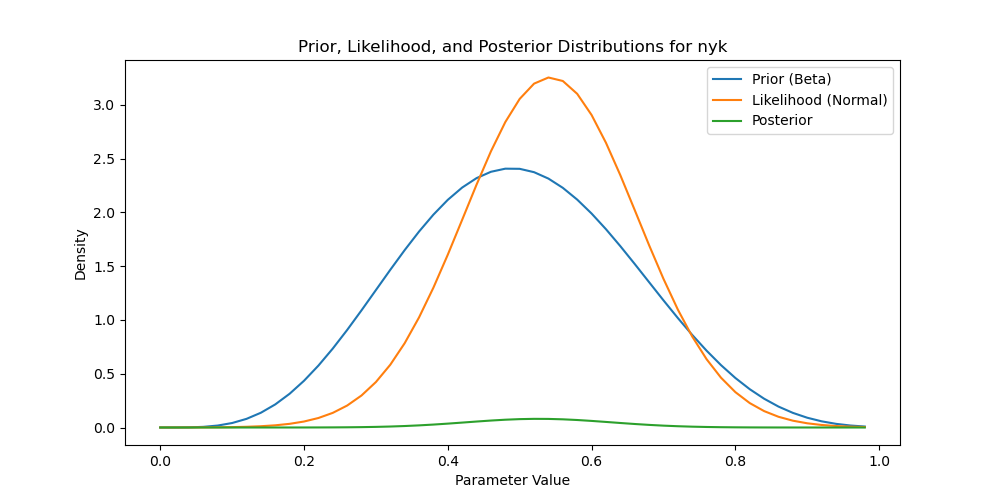
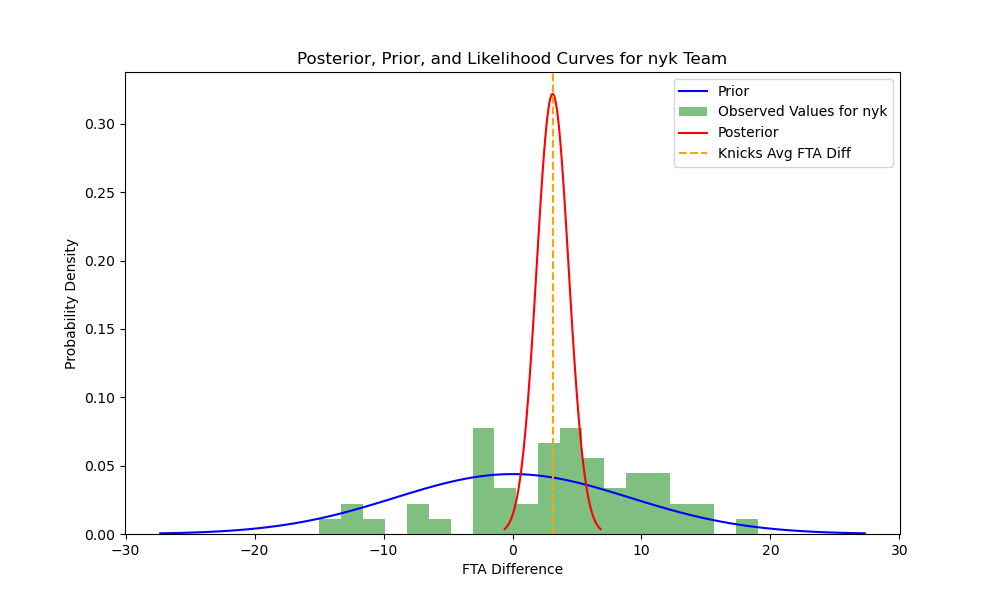
free throw blog update

diff --git a/_posts/free_throw_2024/01_team_data.py b/_posts/free_throw_2024/01_team_data.py
@@ -7,9 +7,7 @@ import seaborn as sns
 import matplotlib.pyplot as plt
 import statsmodels.api as sm
 import scipy.stats as stats
-from sklearn.preprocessing import MinMaxScaler
-from scipy.stats import beta 
-from scipy.stats import norm
+from scipy.stats import norm, gaussian_kde
 # let's set the new working directory:
 new_directory = '/Users/danielposthumus/danielposthumus.github.io/_posts/free_throw_2024'
 os.chdir(new_directory)
@@ -138,18 +136,6 @@ plt.legend(title='Team')
 plt.savefig(image_path + '/total_kdp.png')
 plt.show()
 # let's replot that as a histogram; the problem is that we can't have all 30 teams included; let's restrict it to the top 10.
-# However, to fit the beta distribution, ALL observations of the fta_diff must be in the interval [0,1]; this is pretty simple via standardizing with min-max:
-# Extract the 'fta_diff' column from the master data
-fta_diff = master_team['fta_diff']
-# Create a MinMaxScaler object
-scaler = MinMaxScaler()
-# Fit the scaler to your data and transform it
-scaled_fta_diff = scaler.fit_transform(fta_diff.values.reshape(-1, 1))
-# Add the scaled variable back to the DataFrame
-master_team['scaled_fta_diff'] = scaled_fta_diff
-master_team['scaled_fta_diff'] = master_team['scaled_fta_diff'] + 0.001
-print(np.min(master_team['scaled_fta_diff']))
-print(np.max(master_team['scaled_fta_diff']))
 # Now let's check about missing observations:
 # Display the first few rows of the missing values count
 pd.set_option('display.max_rows', None)
@@ -162,68 +148,84 @@ plt.figure(figsize=(8,4))
 team_colors = {'lal': 'purple', 'phi': 'blue', 'nyk': 'orange'}
 team_labels = {'lal': 'Lakers', 'phi': 'Sixers', 'nyk': 'Knicks'}
 team_averages = {}
-plt.hist(master_team['scaled_fta_diff'])
+plt.hist(master_team['fta_diff'], bins=20, density=True, alpha=0.5, color='skyblue', edgecolor='black', label='FTA Difference')
+# Plotting the normal curve
+mu, std = np.mean(master_team['fta_diff']), np.std(master_team['fta_diff'])
+x = np.linspace(np.min(master_team['fta_diff']), np.max(master_team['fta_diff']), 100)
+plt.plot(x, norm.pdf(x, mu, std), 'r-', label='Normal Distribution')
 plt.ylabel(r'Number of Games')
 plt.xlabel(r'FTA Difference ($\theta$)')
-plt.axvline(master_team['scaled_fta_diff'].mean(), ls='--', c='k', label='Mean Avg FTA (Scaled)')
+plt.axvline(master_team['fta_diff'].mean(), ls='--', c='k', label='Mean Avg FTA')
 for team in ['lal', 'phi', 'nyk']:
-    team_average = master_team[master_team['team_name']==team]['scaled_fta_diff'].mean()
+    team_average = master_team[master_team['team_name']==team]['fta_diff'].mean()
     team_averages[team] = team_average
-    plt.axvline(x=team_average, color=team_colors[team], linestyle='--', label=f'{team_labels[team]} Avg FTA Diff (Scaled)')
+    plt.axvline(x=team_average, color=team_colors[team], linestyle='--', label=f'{team_labels[team]} Avg FTA Diff')
 plt.legend()
 plt.tight_layout()
 plt.savefig(image_path + '/total_hist.png')
 plt.show()
-# Now let's fit a beta distribution:
-res = stats.beta.fit(master_team['scaled_fta_diff'].values, floc=0, fscale=1.1)
-# Print alpha and beta parameters of the beta distribution
-print('alpha: %0.3f, beta: %0.3f of beta distribution' % (res[0], res[1]))
-# Now let's plot the histogram w/the mean lines and the prior distribution curve
-plot_theta = np.arange(0,1,.02)
-prior_prob = np.array([beta(res[0], res[1], loc=0, scale=1.1).pdf(i) for i in plot_theta])
-
-fig, ax = plt.subplots(1,1, figsize=(8,4))
-ax.hist(master_team['scaled_fta_diff'], density=True)
-ax.axvline(master_team['scaled_fta_diff'].mean(), ls='--', c='k',
-            label='Mean ('+str(master_team['scaled_fta_diff'].mean().round(3))+')')
-ax.plot(plot_theta, prior_prob, label="Prior Distribution")
-ax.set_yticks([])
-ax.set_ylabel(r'Pr($\theta$)')
-ax.set_xlabel(r'FTA Difference($\theta$)')
-ax.legend()
-sns.despine(offset=[3.,0.])
-plt.tight_layout()
-plt.savefig(image_path + '/total_prior_dist.png')
-plt.show()
-
-# Now let's analytically derive the posterior; let's run a loop for the three teams of interest:
-three_teams = ['lal', 'nyk', 'phi']
-for team in three_teams:
-    # Define the normal likelihood function
-    def normal_likelihood(data, mean, std):
-        likelihood = norm.pdf(data, loc=mean, scale=std)
-        return likelihood
-    # Calculate mean and standard deviation of the observed data
-    # Filter the DataFrame to select only observations where team_name is 'team'
-    team_data = master_team[master_team['team_name'] == f'{team}']
-    # Calculate mean and standard deviation of the filtered data
-    mean_team = team_data['scaled_fta_diff'].mean()
-    std_team = team_data['scaled_fta_diff'].std()
-    # Compute the likelihood function using the observed data and its parameter
-    # Adjust the range of values for team_likelihood to match the length of prior_prob
-    team_likelihood = normal_likelihood(np.linspace(0, 1, len(prior_prob)), mean_team, std_team)
-    # Compute the unnormalized posterior by multiplying the likelihood with the prior
-    team_unnormalized_posterior = team_likelihood * prior_prob
-    # Normalize the posterior to obtain the actual posterior distribution
-    team_posterior = team_unnormalized_posterior / np.sum(team_unnormalized_posterior)
-    # Plot the prior, likelihood, and posterior distributions
-    plt.figure(figsize=(10, 5))
-    plt.plot(plot_theta, prior_prob, label='Prior (Beta)')
-    plt.plot(plot_theta, team_likelihood, label='Likelihood (Normal)')
-    plt.plot(plot_theta, team_posterior, label='Posterior')
-    plt.xlabel('Parameter Value')
-    plt.ylabel('Density')
-    plt.title(f'Prior, Likelihood, and Posterior Distributions for {team}')
+# Now let's analytically derive the posterior. 
+def likelihood(theta, data):
+    mu = theta[0]
+    sigma = theta[1]
+    return np.prod(norm.pdf(data, mu, sigma))
+# Prior distribution parameters
+prior_mean = master_team['fta_diff'].mean()
+prior_std = master_team['fta_diff'].std() 
+prior_var = prior_std**2 
+# Number of samples to draw from the posterior distribution
+num_samples = 5000
+# Now, let's run a loop for the three teams of interest:
+teams_interest = ['lal', 'nyk', 'phi']
+posterior_samples_all_teams = []
+for team in teams_interest:
+    team_data = master_team[master_team['team_name'] == team]['fta_diff']
+    # Likelihood parameters
+    likelihood_team = likelihood([team_data.mean(), team_data.std()], team_data)
+    # Posterior distribution parameters
+    posterior_mean_team = (prior_mean / prior_var + np.sum(team_data) / prior_var) / (1 / prior_var + len(team_data) / prior_var)
+    posterior_var_team = 1 / (1 / prior_var + len(team_data) / prior_var)
+    posterior_std_team = np.sqrt(posterior_var_team)
+    # Sample from the posterior distribution
+    posterior_samples_team = np.random.normal(posterior_mean_team, posterior_std_team, num_samples)
+    posterior_samples_all_teams.append(posterior_samples_team)
+    x_prior = np.linspace(prior_mean - 3*prior_std, prior_mean + 3*prior_std, 100)
+    team_posterior = np.linspace(posterior_mean_team - 3*posterior_std_team, posterior_mean_team + 3*posterior_std_team, 100)
+    # Append posterior samples to the list
+    # Now let's plot everything: 
+    plt.figure(figsize=(10, 6))
+    plt.plot(x_prior, norm.pdf(x_prior, prior_mean, prior_std), label='Prior', color='blue')
+    plt.hist(team_data, bins=20, density=True, alpha=0.5, color='green', label=f'Observed Values for {team}')
+    plt.plot(team_posterior, norm.pdf(team_posterior, posterior_mean_team, posterior_std_team), label='Posterior', color='red')
+    plt.axvline(x=team_average, color=team_colors[team], linestyle='--', label=f'{team_labels[team]} Avg FTA Diff')
+    plt.title(f'Posterior, Prior, and Likelihood Curves for {team} Team')
+    plt.xlabel('FTA Difference')
+    plt.ylabel('Probability Density')
     plt.legend()
     plt.savefig(image_path + f'/posterior_{team}.png')
     plt.show()
+# Now let's plot all three posterior curves together:
+plt.figure(figsize=(10, 6))
+# Plot each posterior curve
+for i, team in enumerate(teams_interest):
+     # Calculate KDE
+    kde = gaussian_kde(posterior_samples_all_teams[i])
+    x = np.linspace(posterior_samples_all_teams[i].min(), posterior_samples_all_teams[i].max(), 100)
+    plt.plot(x, kde(x), label=f'{team} Posterior')
+# Add legend and labels
+plt.title('Posterior Curves for All Teams')
+plt.xlabel('FTA Difference')
+plt.ylabel('Probability Density')
+plt.legend()
+plt.savefig(image_path + '/posterior_total_kde.png')
+plt.show()
+# Now let's do the same thing, but with histograms:
+plt.figure(figsize=(10, 6))
+for i, team in enumerate(teams_interest):
+    plt.hist(posterior_samples_all_teams[i], bins=30, density=True, alpha=0.5, label=f'{team} Posterior')
+plt.title('Posterior Curves for All Teams')
+plt.xlabel('FTA Difference')
+plt.ylabel('Probability Density')
+plt.legend()
+plt.savefig(image_path + '/posterior_total_hist.png')
+plt.show()

diff --git a/_posts/2024-02-16-free-throws.md b/_posts/2024-02-16-free-throws.md
@@ -22,15 +22,19 @@ Where $\mu_t$ is the team fixed-effects term. The coefficients attached to the s
 ![team fixed effects sizes]({{ site.url }}{{ site.baseurl }}//images/blog-free-throw/team_fe_size.png)
 Clearly, three teams get the largest 'bonus', other factors being controlled for: the Los Angeles Lakers,  the New York Knicks, and the Philadelphia 76ers. Unsurprisingly, these are three very significant big-market teams--the Knicks are the 2nd-most valuable NBA franchise, the Lakers the 3rd, and the Sixers the 9th, [as of December 2023](https://www.nbcdfw.com/news/sports/nba/listing-the-most-valuable-nba-franchises-after-mark-cuban-sells-stake-of-mavericks/3399123/).
 
-Let's look at our team data with one more method (I'll address individual-level data in a later post) by analytically calculating the posteriors for the Knicks, Lakers, and Phialdelphia given the distribution of free throw attempt differences among the teams in the league. Free throw differential has a unique feature: its distribution is guaranteed to be symmetric, since for every team that has a $+y_1$ free throw differential for game 1, another team has a $-y_1$ free throw differential for game 1. Additionally, we know the data will be centered on 0. In order to fit my model to a beta distribution, however, all observations of my variable must lie in the interval (0,1.1)--thus, I scale all observations of FTA difference to a (0,1) scale. Therefore the 0.501 mean seen below matches our expectations of a distribution centered around 0.
-![team fixed effects sizes]({{ site.url }}{{ site.baseurl }}//images/blog-free-throw/total_prior_dist.png)
+Let's conclude by employing Bayesian econometrics to derive the posterior curve for each of these teams; these curves suggest possible estimates of the 'true' value of a team's free throw attempts. We combine the knowledge given to us by our priors--in this case, the *total* distribution of free throw difference. Because of the nature of the data about free throw difference, I fit it to a normal curve: 1) free throw difference will always be centered on 0, for a complete dataset of teams and games, 2) free throw differences closer to 0 are much likelier than free throw differences away from 0, and 3) free throw difference will follow a *unimodal* (rather than binomial, for example) distribution. Here I've ploted the total distribution, the fitted normal curve, and the means for my three teams of interest:
+![team fixed effects sizes]({{ site.url }}{{ site.baseurl }}//images/blog-free-throw/total_hist.png)
+The fitted normal curve represents my prior information about the distribution of free throw attempt differences. Next, I estimate the posterior curve yielded by Bayes' Theorem:
+$$
+P(\theta | \text{prior}) = \frac{P(\text{prior} | \theta) P(\theta)}{P(\text{prior})}
+$$
 Next, I use the normal likelihood estimator to find the likelihood estimates and posteriors for the Lakers, Knicks, and Sixers.
 ![team fixed effects sizes]({{ site.url }}{{ site.baseurl }}//images/blog-free-throw/posterior_lal.png)
 ![team fixed effects sizes]({{ site.url }}{{ site.baseurl }}//images/blog-free-throw/posterior_nyk.png)
 ![team fixed effects sizes]({{ site.url }}{{ site.baseurl }}//images/blog-free-throw/posterior_phi.png)
+Now let's plot a distribution of the samples from each of these posterior curves (I took 5,000 samples from each):
+![team fixed effects sizes]({{ site.url }}{{ site.baseurl }}//images/blog-free-throw/posterior_total_hist.png)
 
 *Data is taken from [Basketball Reference](https://www.basketball-reference.com/).*
 
-[Code](https://github.com/dkposthumus/danielposthumus.github.io/tree/master/_posts/free_throw_2024/code)
-
-[Data](https://github.com/dkposthumus/danielposthumus.github.io/tree/master/_posts/free_throw_2024)
+[Code and Data](https://github.com/dkposthumus/danielposthumus.github.io/tree/master/_posts/free_throw_2024)
